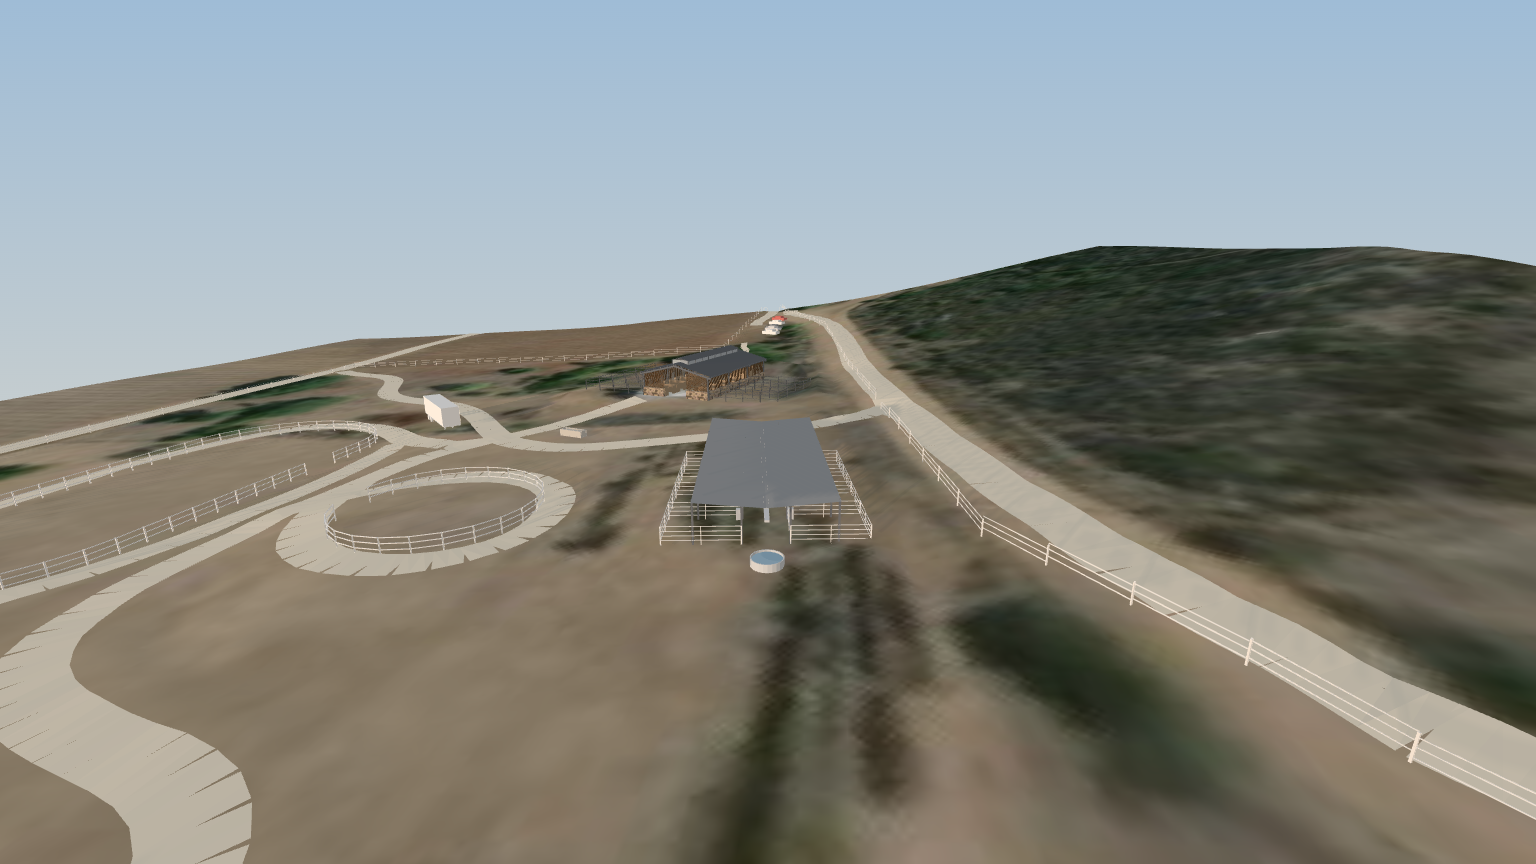
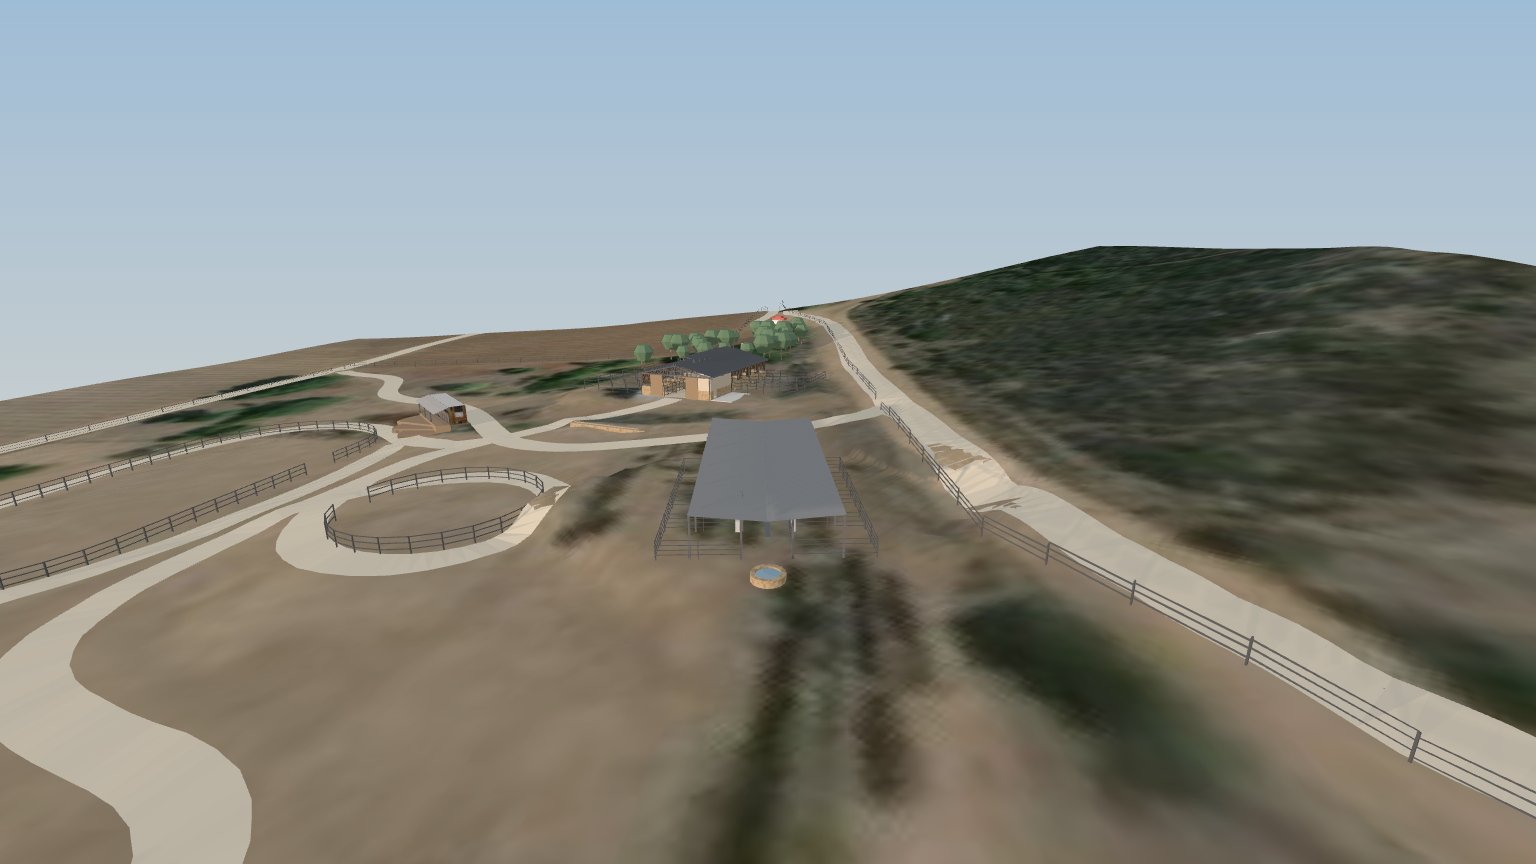
Handoff: coyotemountainfarm.com not down, router block

diff --git a/HANDOFF-2026-09-24-centro-equino-session.md b/HANDOFF-2026-09-24-centro-equino-session.md
@@ -323,7 +323,7 @@ along the whole south fence as ~8 small flows), so the crossings are now sized f
 **Where things live now**
 - **Gallery (public, no sign-in):** https://will.100xbtr.com/equino/ — repo `WebDev/will-os/equino/` (push main = deploy). Picks/notes/★finalists saved in Netlify Blobs via `will-os/netlify/edge-functions/equino-picks.js` (GET/POST `/equino/api/picks`, fields gone/note/star/by). `img/<view>-<tag>.jpg`; tags: openai, google, model, fresh (Gemini 28 Sep), freshoa, picnic, raw (no-AI). "★ Finalists only" mode hides everything else. Read notes: `curl https://will.100xbtr.com/equino/api/picks`.
 - **3D viewer (public):** https://will.100xbtr.com/equino/model/ — copy of scratchpad viewer (`projects/viewer/index.html` + `export.py`); after every model change: `cd projects/viewer && python export.py <outdir>` → copy `data.json` to `will-os/equino/model/` and push. Site copy of index.html has an extra "Galería de renders" link line under the lede.
-- **Topo app with connect AI:** https://will.100xbtr.com/equino/topo/topo.html (current coyote-studio topo.html copied 3 Oct). **coyotemountainfarm.com is DOWN** (DNS now GoDaddy, not GitHub Pages — Will must check the domain). Connector code **BVQKW4N4Y3**: set `localStorage['coyote-ai-code']='BVQKW4N4Y3'`, reload, load project via the hidden file input (`find` → ref, `file_upload`), switch on in `#u2aiPop`. Then the claude.ai topo MCP tools (get_state, screenshot, set_view, open_tool…) drive Will's tab. Read Will's tab project: override `URL.createObjectURL` + click `#saveProj` (see 3 Oct transcript). Objects move with SHAPE → object (select only picks strokes).
+- **Topo app with connect AI:** https://will.100xbtr.com/equino/topo/topo.html (current coyote-studio topo.html copied 3 Oct). coyotemountainfarm.com is NOT down — Will's home router was blocking it (3 Oct); the /equino/topo copy is a stopgap until he restarts the router. Connector code **BVQKW4N4Y3**: set `localStorage['coyote-ai-code']='BVQKW4N4Y3'`, reload, load project via the hidden file input (`find` → ref, `file_upload`), switch on in `#u2aiPop`. Then the claude.ai topo MCP tools (get_state, screenshot, set_view, open_tool…) drive Will's tab. Read Will's tab project: override `URL.createObjectURL` + click `#saveProj` (see 3 Oct transcript). Objects move with SHAPE → object (select only picks strokes).
 - **Drawings:** `projects/centro-equino-2026-09-26*.json` (nopad = current). Rebuild chain now: `for f in _bak_0928/*.json; do cp $f .; done; python site_extras.py; python bleachers.py` (backups in `_bak_0928/` carry the current stable/stalls; after `swap_stable.py` or a stalls rebuild, copy the new stroke into `_bak_0928` too — snippet in transcript).
 - **Paintings:** `renders/gallery3.py` (one strict BRIEF + BLOCK3 + PICNIC + per-view EXTRA; `python gallery3.py google|openai <views>`), `renders/elevations.py` (eye-level, site photo refs `site-ref-0576/0577.jpg` from Drive `Chichihaus/Site photos`), `renders/cover_paint.py`. Model shots: `node renders/modelshots.mjs http://127.0.0.1:8792/index.html model <ids>` (serve scratchpad/viewer on 8792). Gemini is better at positions; OpenAI better at geometry detail. Gemini sometimes doubles floating blocks.
 
@@ -342,4 +342,4 @@ along the whole south fence as ~8 small flows), so the crossings are now sized f
 2. Elevations: straight-on cameras done (`el-north/south/west/east` in modelshots.mjs, north eye 9 ft above floor, east framed by two pines); **repainted 3 Oct with the stick doors/new trough — results in `renders/elevations/` not yet reviewed or delivered** (previous set in `elevations/prev/`, Drive `renderings/2026-10-03 stable elevations (eye level)/`).
 3. Model changes since the last gallery repaint (stick doors/gables, trough, road, hallway stalls) — gallery paintings are stale.
 4. Will may still redraw the road (asked him to sketch it with the pen; read strokes from his tab).
-5. coyotemountainfarm.com domain down.
+5. coyotemountainfarm.com: fine; Will's router was blocking it (restart pending).
